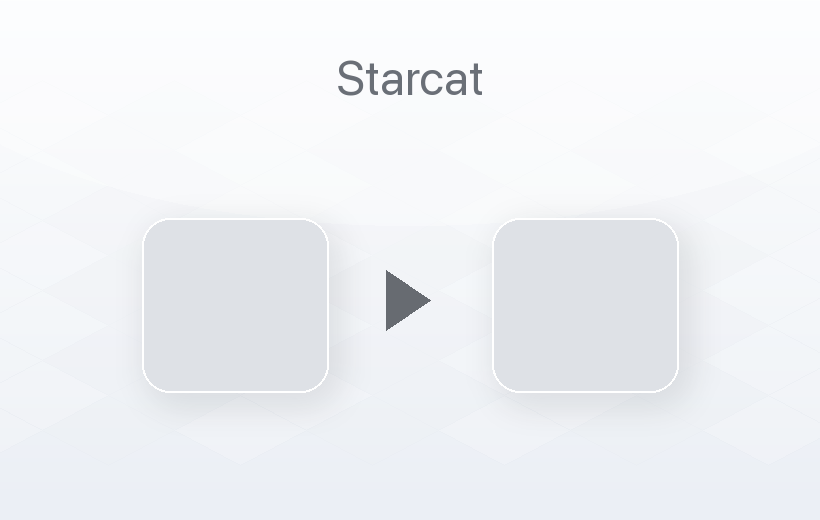
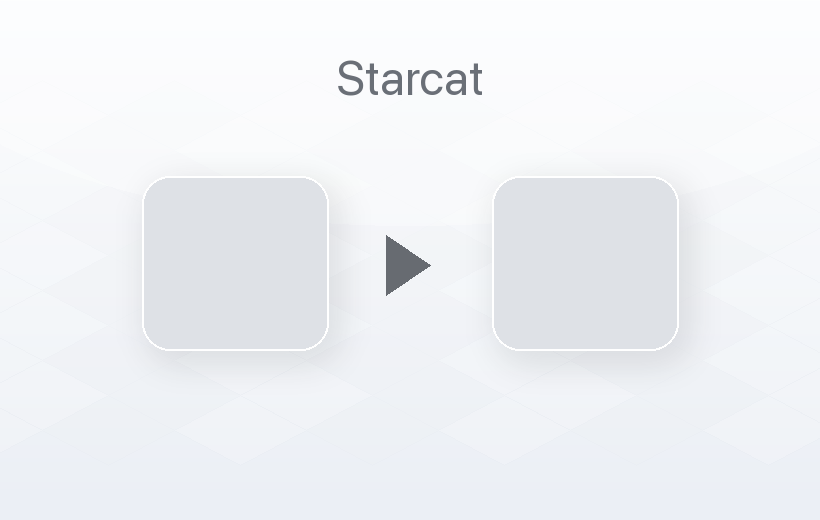
增加 Direct DMG 背景微调脚本

diff --git a/scripts/generate-dmg-background.py b/scripts/generate-dmg-background.py
@@ -1,0 +1,158 @@
+#!/usr/bin/env python3
+"""Generate the fixed Finder background used by Starcat Direct DMG.
+
+The image is intentionally generated from a small set of coordinates because
+Finder applies toolbar and status-bar chrome around the background. Keeping the
+layout numbers here makes repeated visual tuning cheaper than editing pixels by
+hand.
+"""
+
+from __future__ import annotations
+
+from pathlib import Path
+
+from PIL import Image, ImageDraw, ImageFilter, ImageFont
+
+
+# Canvas must stay in sync with scripts/package-direct.sh --window-size.
+CANVAS_WIDTH = 820
+CANVAS_HEIGHT = 520
+
+# Tune these values when the mounted DMG looks vertically unbalanced.
+TITLE_Y = 48
+PANEL_TOP = 176
+PANEL_HEIGHT = 174
+PANEL_WIDTH = 186
+LEFT_PANEL_X = 142
+RIGHT_PANEL_X = 492
+ARROW_CENTER_Y = 265
+
+OUTPUT_PATH = Path(__file__).resolve().parent / "assets" / "dmg-background.png"
+
+
+def load_title_font(size: int) -> ImageFont.FreeTypeFont | ImageFont.ImageFont:
+    """Use the system font when available so the DMG looks native on macOS."""
+
+    for font_path in (
+        "/System/Library/Fonts/SFNS.ttf",
+        "/System/Library/Fonts/Supplemental/Arial Bold.ttf",
+        "/Library/Fonts/Arial Bold.ttf",
+    ):
+        try:
+            return ImageFont.truetype(font_path, size)
+        except OSError:
+            continue
+    return ImageFont.load_default()
+
+
+def draw_gradient(draw: ImageDraw.ImageDraw) -> None:
+    """Paint a light vertical gradient to avoid a flat white installer window."""
+
+    for y in range(CANVAS_HEIGHT):
+        t = y / (CANVAS_HEIGHT - 1)
+        red = int(252 * (1 - t) + 235 * t)
+        green = int(253 * (1 - t) + 239 * t)
+        blue = int(254 * (1 - t) + 245 * t)
+        draw.line([(0, y), (CANVAS_WIDTH, y)], fill=(red, green, blue))
+
+
+def draw_isometric_floor(image: Image.Image) -> Image.Image:
+    """Add a quiet geometric floor similar to common polished macOS DMGs."""
+
+    floor = Image.new("RGBA", (CANVAS_WIDTH, CANVAS_HEIGHT), (0, 0, 0, 0))
+    draw = ImageDraw.Draw(floor)
+    origin_y = 150
+    cell_width = 132
+    cell_height = 70
+    for row in range(-2, 8):
+        for col in range(-3, 9):
+            center_x = col * cell_width + (row % 2) * cell_width // 2 + 42
+            center_y = origin_y + row * cell_height // 2
+            polygon = [
+                (center_x, center_y),
+                (center_x + cell_width // 2, center_y + cell_height // 2),
+                (center_x, center_y + cell_height),
+                (center_x - cell_width // 2, center_y + cell_height // 2),
+            ]
+            shade = 255 if (row + col) % 2 == 0 else 239
+            alpha = 42 if center_y > 210 else 20
+            draw.polygon(polygon, fill=(shade, shade, shade, alpha))
+            draw.line(polygon + [polygon[0]], fill=(220, 224, 230, 24), width=1)
+    return Image.alpha_composite(image.convert("RGBA"), floor)
+
+
+def draw_top_highlight(image: Image.Image) -> Image.Image:
+    """Keep the title area airy without increasing the overall brightness."""
+
+    highlight = Image.new("RGBA", (CANVAS_WIDTH, CANVAS_HEIGHT), (255, 255, 255, 0))
+    draw = ImageDraw.Draw(highlight)
+    draw.ellipse((-120, -220, CANVAS_WIDTH + 120, 225), fill=(255, 255, 255, 76))
+    return Image.alpha_composite(image, highlight)
+
+
+def draw_title(image: Image.Image) -> None:
+    """Draw the product name above the drag targets."""
+
+    draw = ImageDraw.Draw(image)
+    font = load_title_font(48)
+    text = "Starcat"
+    bbox = draw.textbbox((0, 0), text, font=font)
+    text_width = bbox[2] - bbox[0]
+    draw.text(((CANVAS_WIDTH - text_width) / 2, TITLE_Y), text, font=font, fill=(106, 111, 119))
+
+
+def draw_panel(image: Image.Image, left: int) -> Image.Image:
+    """Draw one icon backing panel with a soft shadow."""
+
+    top = PANEL_TOP
+    right = left + PANEL_WIDTH
+    bottom = top + PANEL_HEIGHT
+
+    shadow = Image.new("RGBA", (CANVAS_WIDTH, CANVAS_HEIGHT), (0, 0, 0, 0))
+    shadow_draw = ImageDraw.Draw(shadow)
+    shadow_draw.rounded_rectangle(
+        (left + 8, top + 10, right + 8, bottom + 10),
+        radius=28,
+        fill=(98, 103, 110, 38),
+    )
+    shadow = shadow.filter(ImageFilter.GaussianBlur(16))
+    image = Image.alpha_composite(image, shadow)
+
+    panel_draw = ImageDraw.Draw(image)
+    panel_draw.rounded_rectangle(
+        (left, top, right, bottom),
+        radius=28,
+        fill=(222, 225, 230, 112),
+        outline=(255, 255, 255, 220),
+        width=2,
+    )
+    return image
+
+
+def draw_arrow(image: Image.Image) -> None:
+    """Draw the directional cue between Starcat.app and Applications."""
+
+    draw = ImageDraw.Draw(image)
+    draw.polygon(
+        [(386, ARROW_CENTER_Y - 30), (430, ARROW_CENTER_Y), (386, ARROW_CENTER_Y + 30)],
+        fill=(103, 107, 113, 220),
+    )
+
+
+def main() -> None:
+    image = Image.new("RGB", (CANVAS_WIDTH, CANVAS_HEIGHT), (248, 249, 251))
+    draw_gradient(ImageDraw.Draw(image))
+    image = draw_isometric_floor(image)
+    image = draw_top_highlight(image)
+    draw_title(image)
+    image = draw_panel(image, LEFT_PANEL_X)
+    image = draw_panel(image, RIGHT_PANEL_X)
+    draw_arrow(image)
+
+    OUTPUT_PATH.parent.mkdir(parents=True, exist_ok=True)
+    image.convert("RGB").save(OUTPUT_PATH, optimize=True)
+    print(f"Generated {OUTPUT_PATH} ({CANVAS_WIDTH}x{CANVAS_HEIGHT})")
+
+
+if __name__ == "__main__":
+    main()
